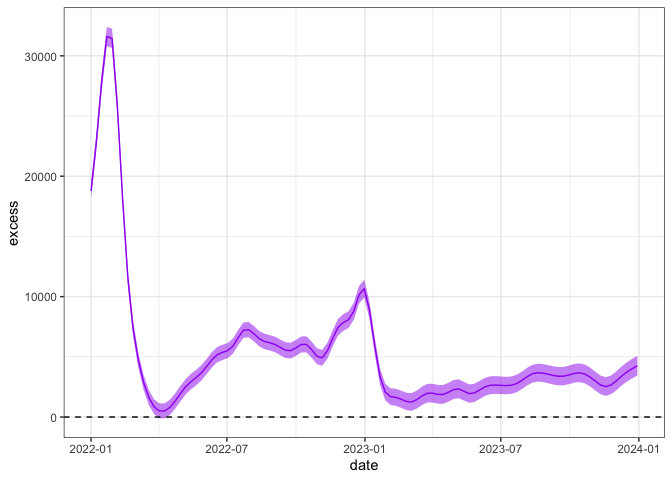
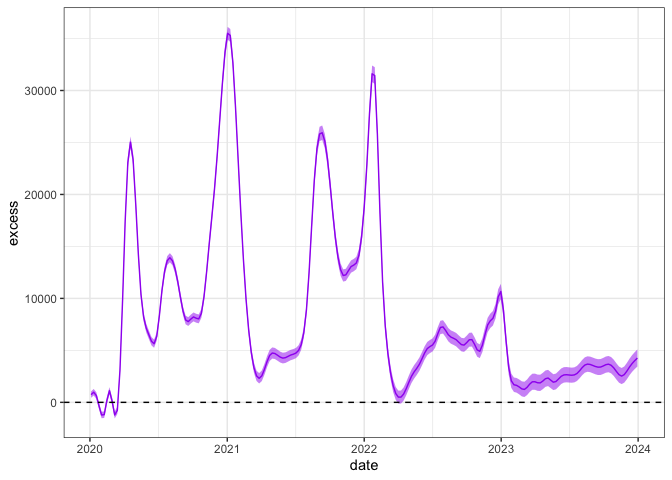
fixing excess figure to start in 2020

diff --git a/us-excess-mortality-analysis.md b/us-excess-mortality-analysis.md
@@ -199,7 +199,7 @@ and a plot:
 tibble(date = em$date, obs = em$observed, excess = em$expected*(exp(em$fitted) - 1), 
        upper = em$expected*(exp(em$fitted + 1.96*em$log_expected_se) - 1),
        lower = em$expected*(exp(em$fitted - 1.96*em$log_expected_se) - 1)) |>
-  filter(date >= make_date(2022,1,1)) |>
+  filter(date >= make_date(2020,1,1)) |>
   ggplot(aes(date, excess)) +
   geom_ribbon(aes(ymin = lower, ymax = upper), alpha = 0.5, fill = "purple") +
   geom_line(color = "purple") +
